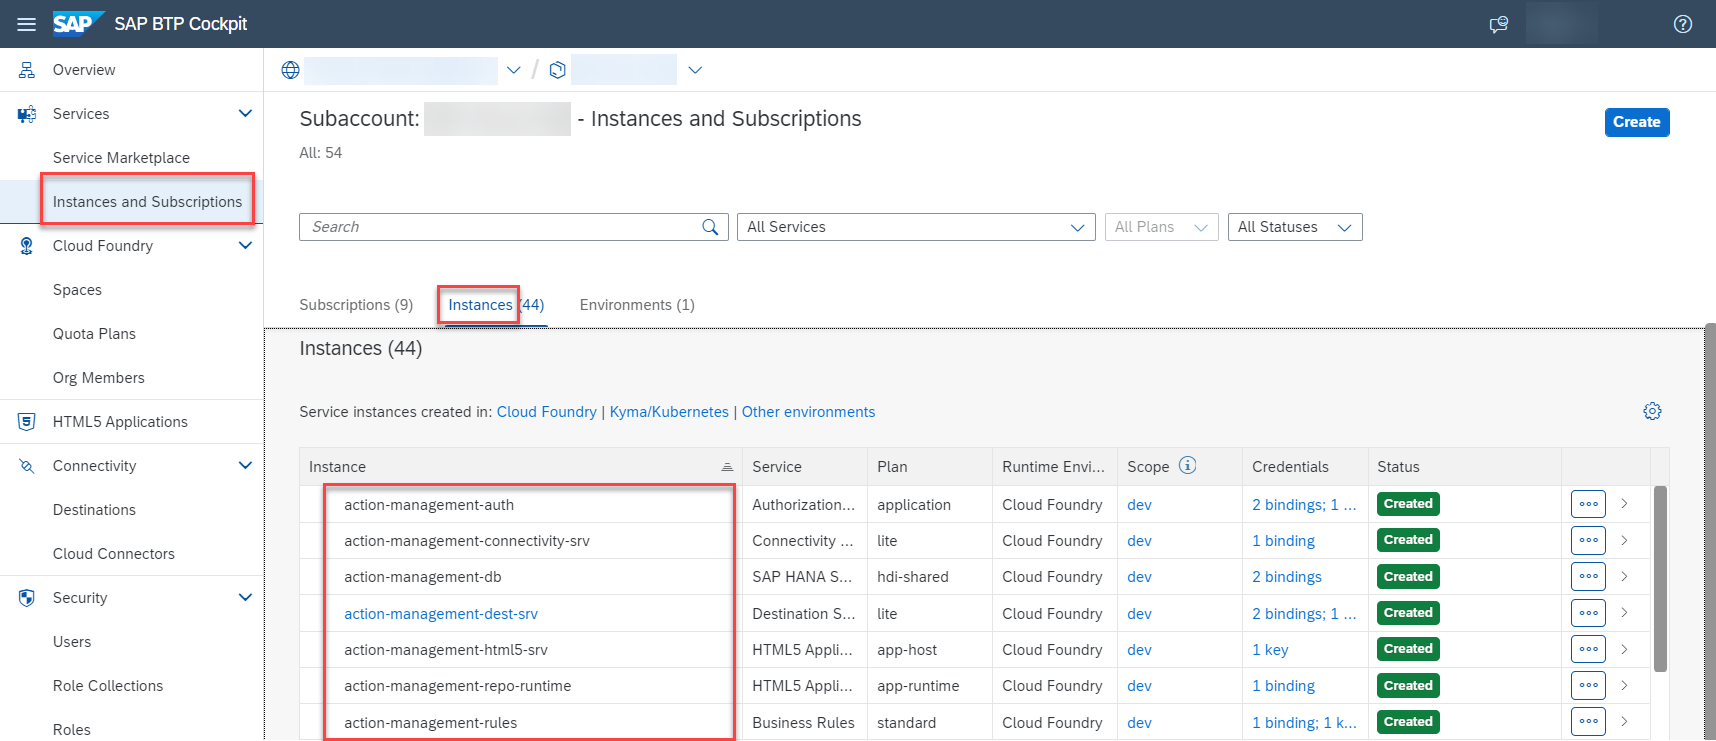
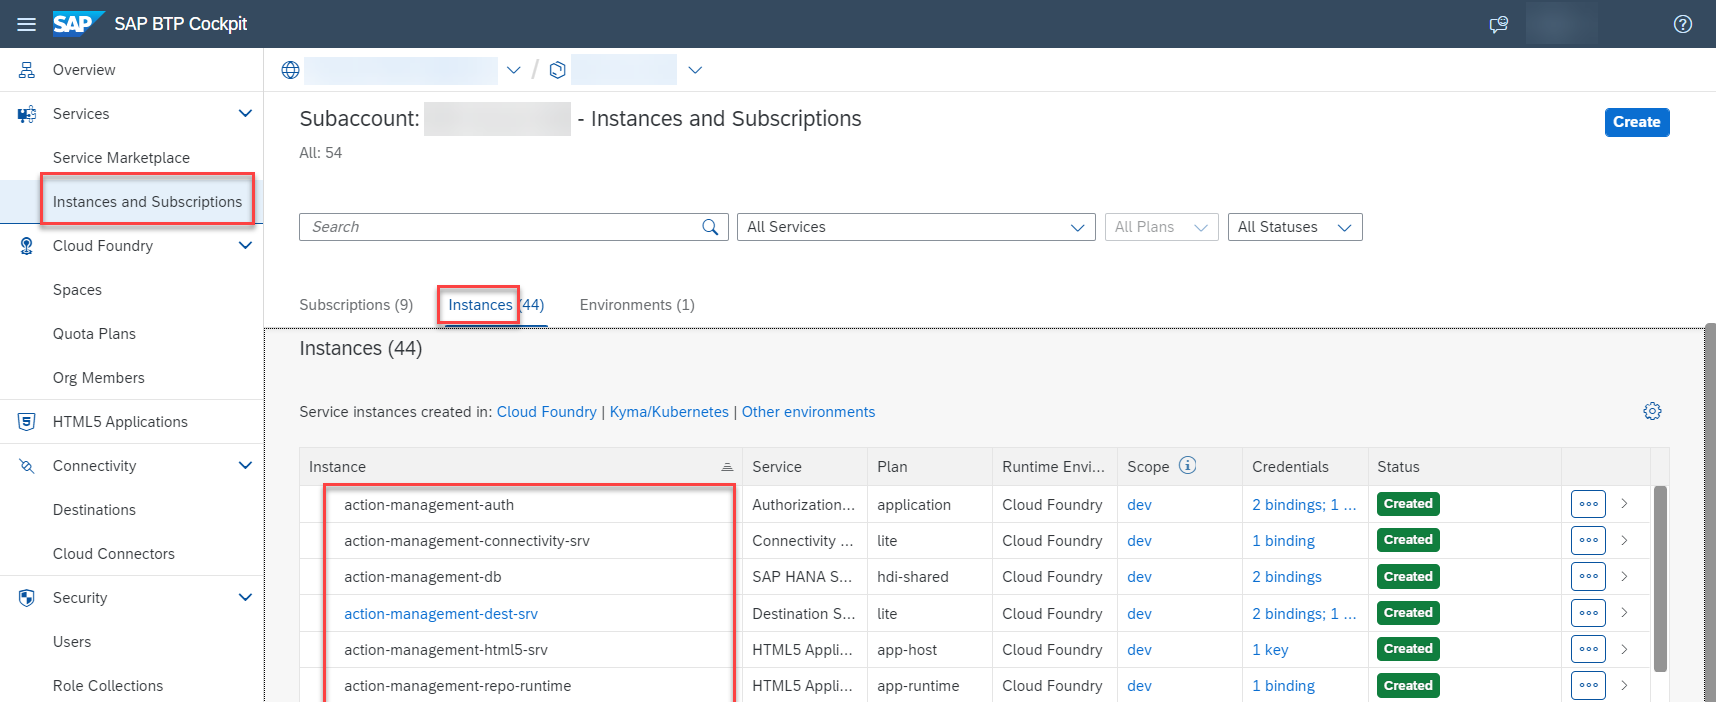
removed business rules, as we now use BPA decisions.

diff --git a/documentation/Step4a-Build-Deploy-ExtensionApplication/README.md b/documentation/Step4a-Build-Deploy-ExtensionApplication/README.md
@@ -57,32 +57,4 @@ Build and deploy the application. Run the following commands:
 
     ![plot](./images/postdeploy.png)
 
-### 4. Add roles for accessing Business Rules
-
-1. In subaccount, choose **Security** > **Role Collections** and then choose **Create New Role Collection** icon.
-
-    ![plot](./images/RoleCollectionListCreate.png)
-
-2. Enter a value of your choice for the **Name** and **Description** field and choose **Create**.
-
-    ![plot](./images/CreateNewRoleCollection.png)
-
-3. Choose **Edit** to add roles and user to the created role collection.
-
-    ![plot](./images/EditRoleCollection.png)
-
-
-4. Select **RoleName** value help and then select the **RuleRepositorySuperUser** and **RuleRuntimeSuperUser** roles from the list.
-
-    ![plot](./images/RoleNameValueHelp.png)
-
-5. Choose **Add**.
-
-    ![plot](./images/SelectRoles.png)
-
-6. In the **Users** tab, enter your email id in **ID** and **E-Mail** input field and choose **Save**.
-
-7. Your configuration should look like below:
-
-    ![plot](./images/AddUserToRoleCollection.png)
 
